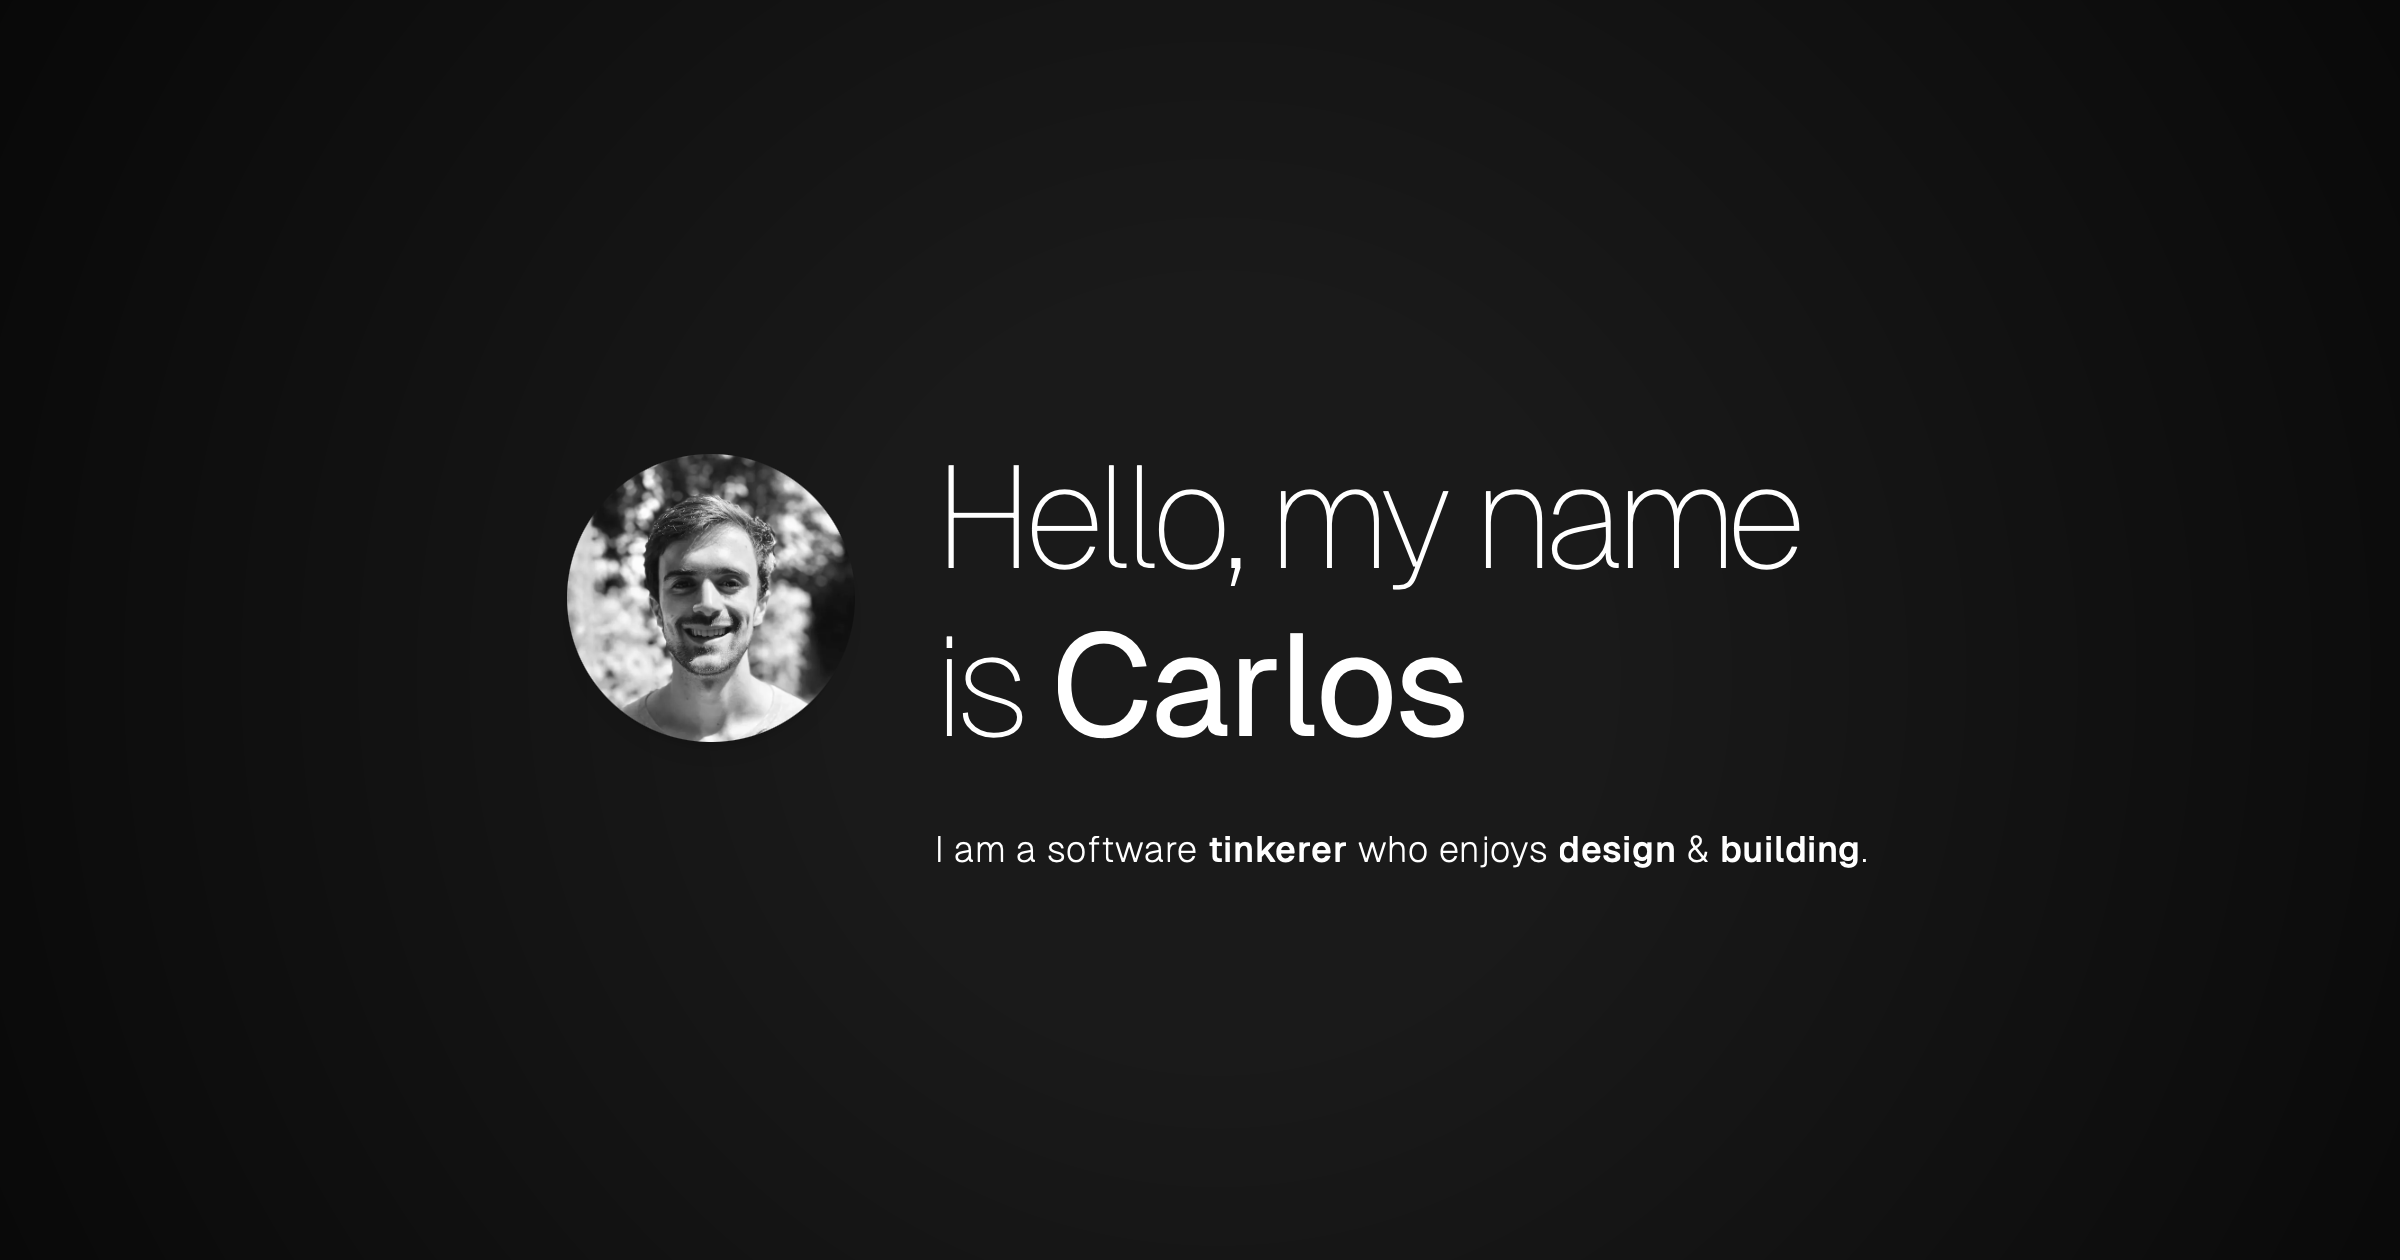
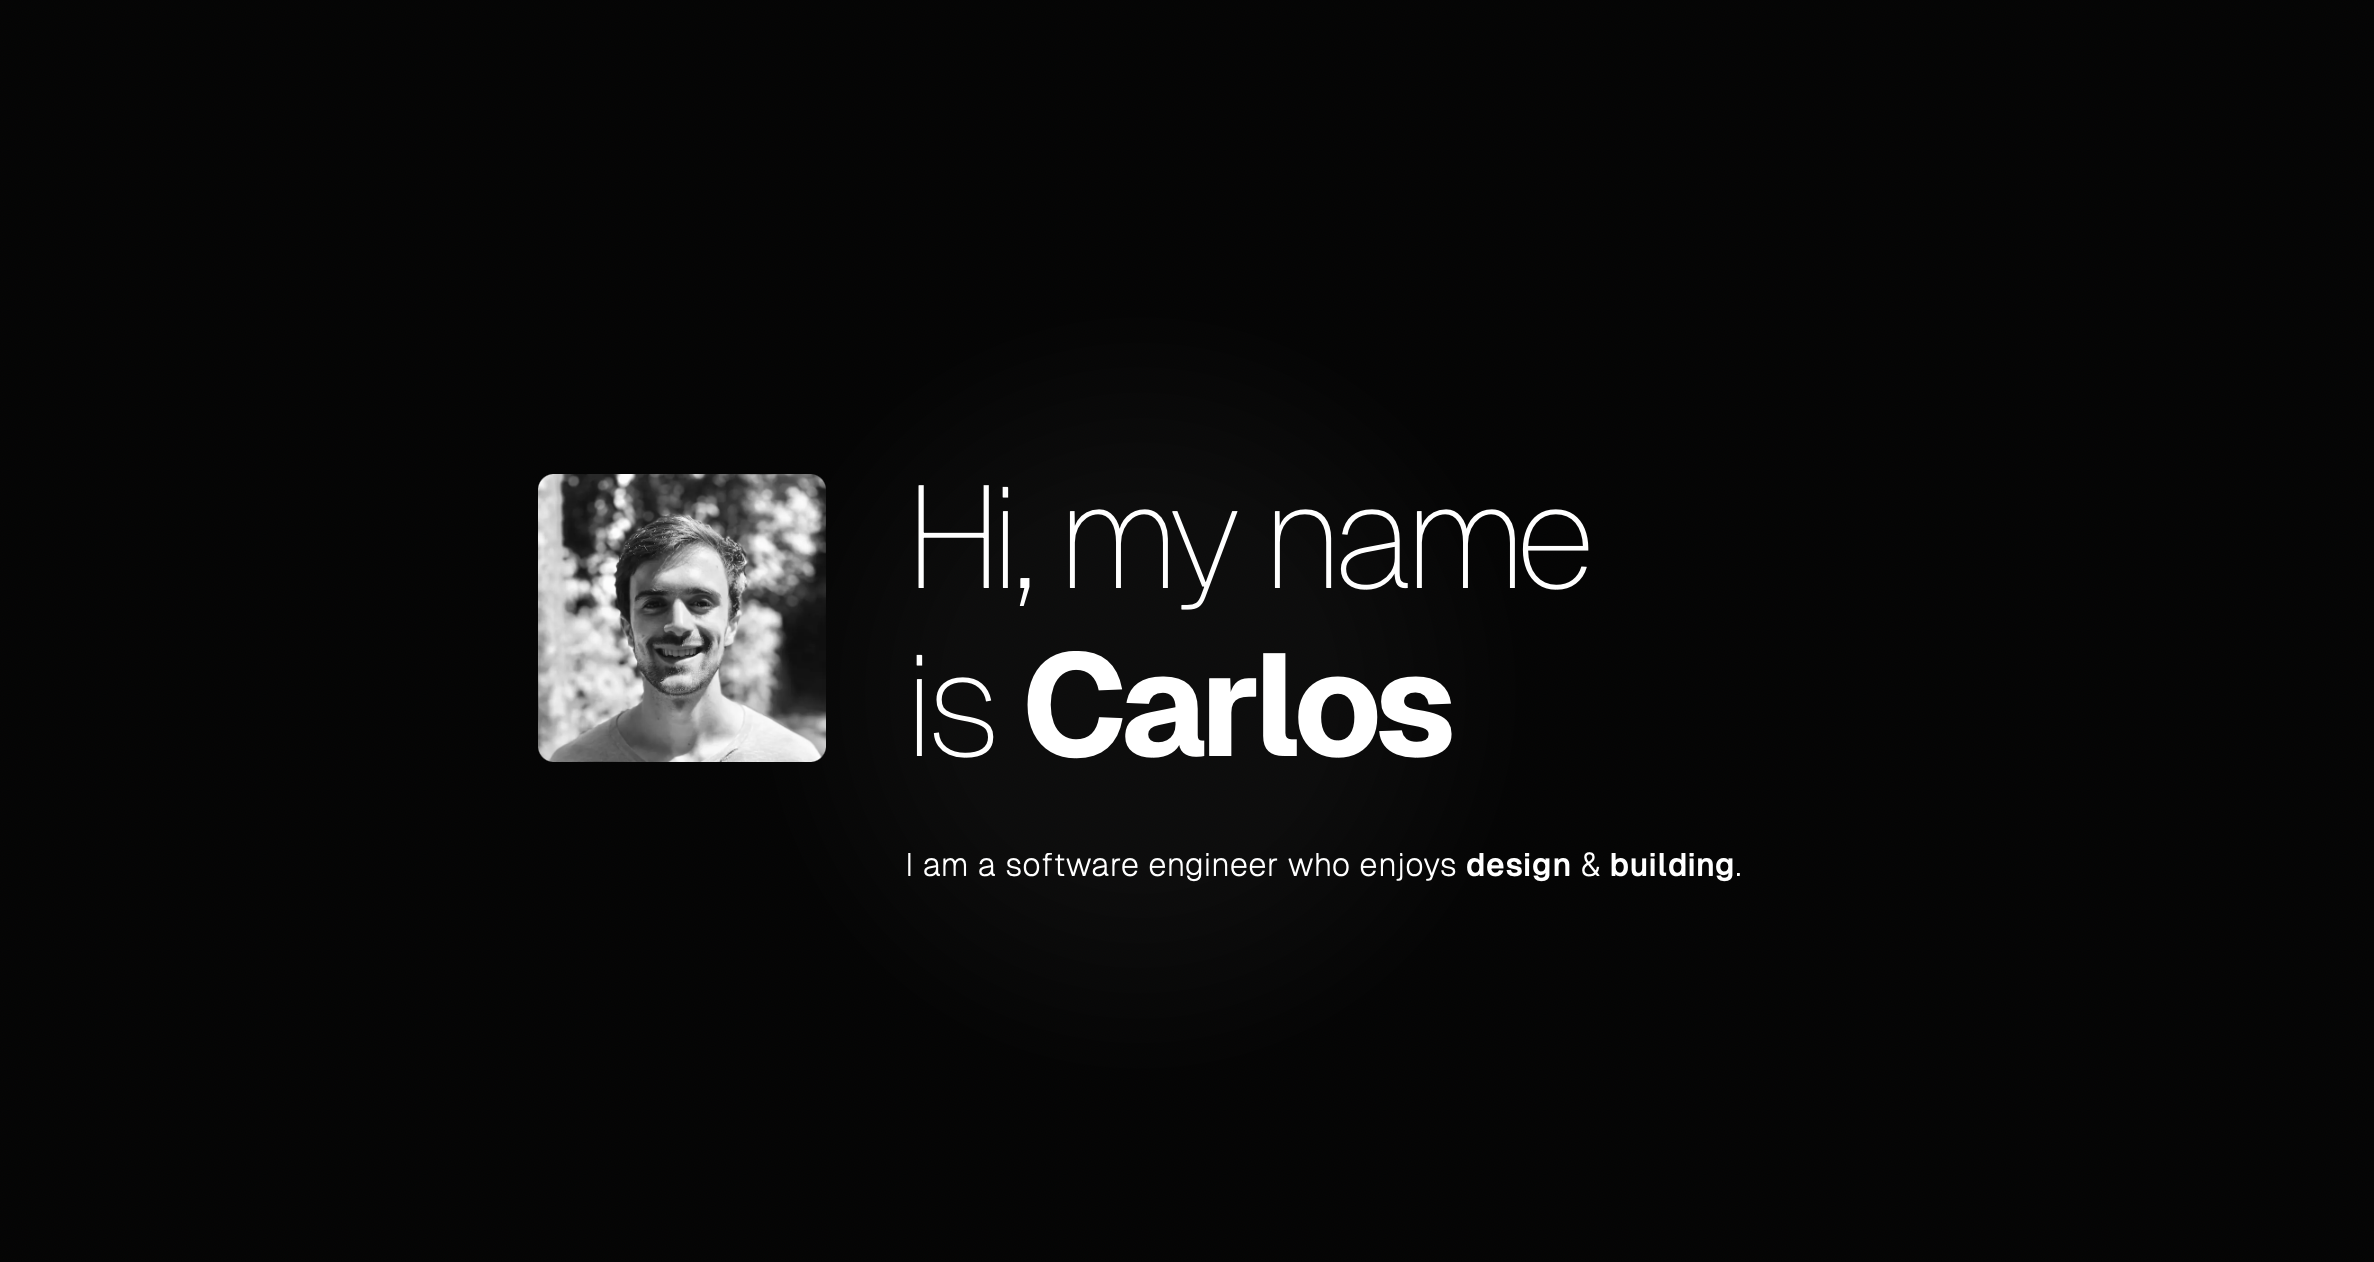
fix: get font working

Changed region(s): [[0.2182, 0.3405, 0.7481, 0.619], [0.3741, 0.65, 0.7793, 0.7119]]

diff --git a/app/layout.tsx b/app/layout.tsx
@@ -1,7 +1,7 @@
 import type { Metadata } from 'next'
 import { GeistSans } from 'geist/font/sans'
 import { GeistMono } from 'geist/font/mono'
-import { Cormorant_Garamond } from 'next/font/google'
+import { Cormorant } from 'next/font/google'
 import { Analytics } from '@vercel/analytics/react'
 
 import './globals.css'
@@ -37,22 +37,20 @@ export const viewport = {
   themeColor: 'dark',
 }
 
-const cormorant = Cormorant_Garamond({
+const cormorant = Cormorant({
   subsets: ['latin'],
   weight: ['300', '400', '500', '600'],
 })
 
-// TODO: on mobile, position menu (<Header />) at the bottom of the screen
+// Idea (mobile): position menu (<Header />) at the bottom of the screen
 export default function RootLayout({
   children,
 }: {
   children: React.ReactNode
 }) {
   return (
-    <html lang="en" suppressHydrationWarning>
-      <body
-        className={`font-sans ${GeistSans.variable} ${GeistMono.variable} ${cormorant.className}`}
-      >
+    <html className={cormorant.className} lang="en" suppressHydrationWarning>
+      <body className={`font-sans ${GeistSans.variable} ${GeistMono.variable}`}>
         <ThemeProvider attribute="class">
           <div className="flex h-dvh flex-col sm:h-full sm:min-h-screen" id="root">
             <Header />

diff --git a/app/muses/page.tsx b/app/muses/page.tsx
@@ -6,7 +6,8 @@ export const metadata: Metadata = {
   description: 'Books | Movies',
 }
 
-const titleClasses = 'font-black tracking-tight text-5xl sm:text-6xl uppercase mb-1 sm:mb-2 lg:mb-4'
+const titleClasses =
+  'font-black tracking-tight text-5xl sm:text-6xl md:text-7xl uppercase mb-1 sm:mb-2 lg:mb-4'
 
 export default function Muses() {
   return (
@@ -50,7 +51,7 @@ const BookSection = ({
   items: Book[]
 }) => (
   <div>
-    <h3 className="mb-0.5 text-lg font-extralight tracking-wide">{title}</h3>
+    <h3 className="mb-1 text-lg sm:text-2xl font-extralight">{title}</h3>
     <ul className="ml-0.5 space-y-0.5 list-inside list-disc font-cormorant text-[.9rem] font-normal">
       {books.map((item) => (
         <li key={item.title}>
@@ -64,7 +65,7 @@ const BookSection = ({
 
 const FilmSection = ({ title, items }: { title: string; items: string[] }) => (
   <div>
-    <h3 className="mb-0.5 text-lg font-extralight">{title}</h3>
+    <h3 className="mb-1 text-lg sm:text-2xl font-extralight">{title}</h3>
     <ul className="ml-0.5 list-inside list-[square] font-cormorant text-sm font-light">
       {items.map((item) => (
         <li key={item}>{item}</li>

diff --git a/tailwind.config.ts b/tailwind.config.ts
@@ -20,7 +20,7 @@ module.exports = {
       fontFamily: {
         sans: ['var(--font-geist-sans)'],
         mono: ['var(--font-geist-mono)'],
-        cormorant: ['Cormorant', 'serif'],
+        cormorant: ['Cormorant'],
       },
       keyframes: {
         'mutate-border': {
